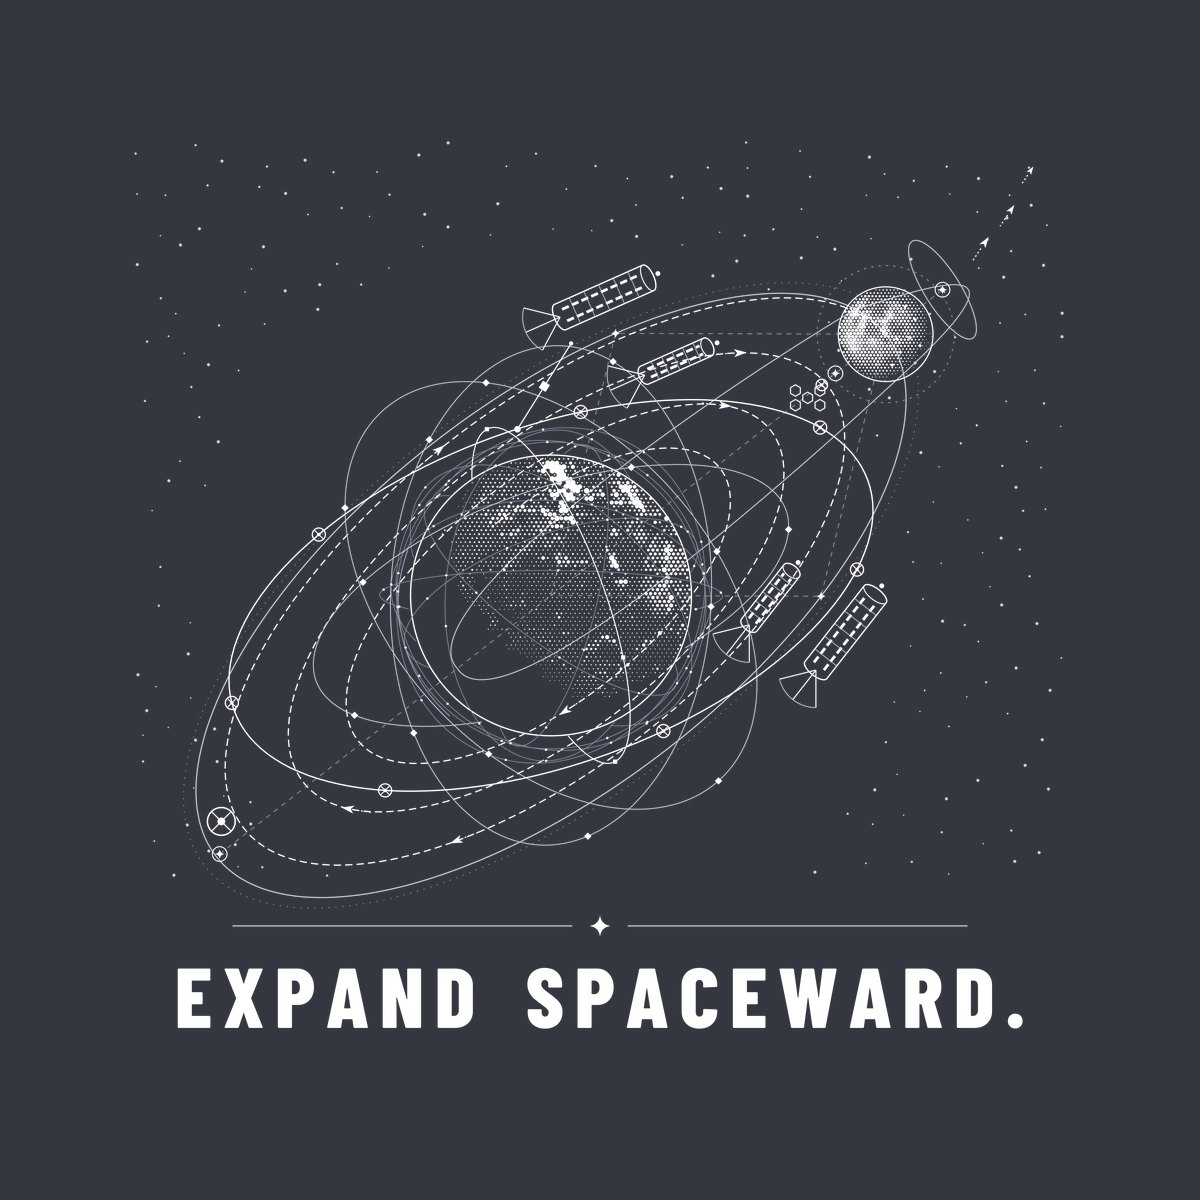
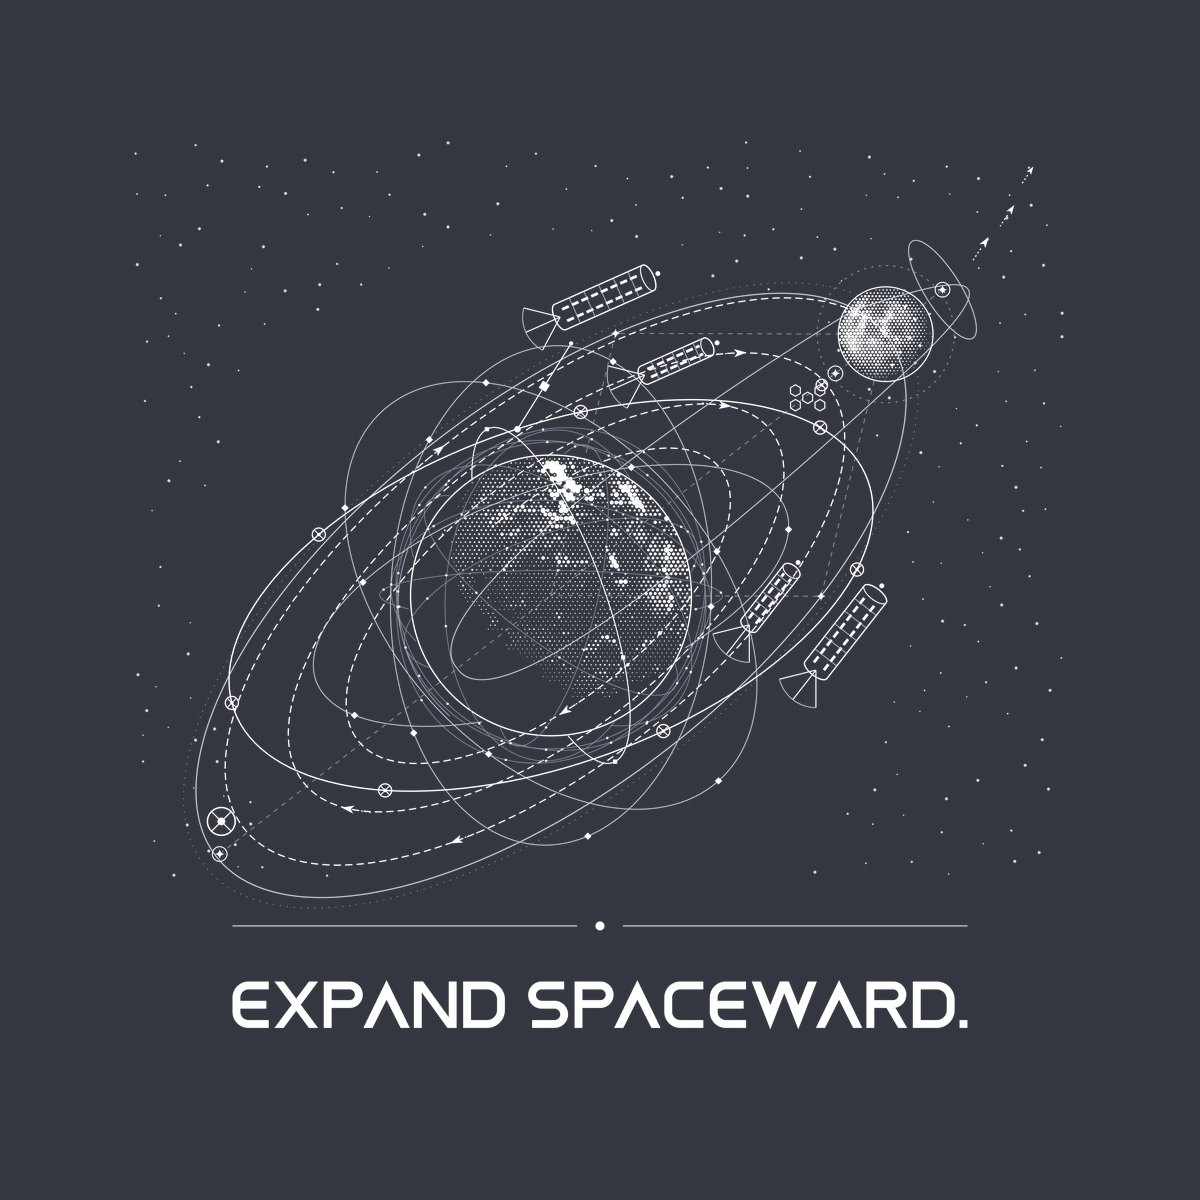
New identity: Earth-limb mark with rising Moon, single-weight lettering
- Header logo and hero headline use the new mark and lettering (SPACEWARD. keeps its period)
- Favicon, touch icon and share image added
- Rail marker is a dot; the four-point star is retired
- Tee gallery close-up regenerated from the re-lettered back print

Claude-Session: https://claude.ai/code/session_01GXNSjP8nvqJDbdjoJYqwpt

Changed region(s): [[0.1233, 0.8017, 0.8633, 0.8633]]

diff --git a/index.html b/index.html
@@ -5,6 +5,16 @@
 <meta name="viewport" content="width=device-width, initial-scale=1">
 <title>SPACEWARD</title>
 <link rel="canonical" href="https://gospaceward.com/">
+<link rel="icon" href="img/favicon.svg" type="image/svg+xml">
+<link rel="icon" href="img/favicon-32.png" sizes="32x32" type="image/png">
+<link rel="apple-touch-icon" href="img/icon-180.png">
+<meta name="theme-color" content="#07080B">
+<meta property="og:title" content="SPACEWARD.">
+<meta property="og:description" content="The frontier did not close. It moved up.">
+<meta property="og:type" content="website">
+<meta property="og:url" content="https://gospaceward.com/">
+<meta property="og:image" content="https://gospaceward.com/img/share.jpg">
+<meta name="twitter:card" content="summary_large_image">
 <script>if(/(^|\.)expandspaceward\.com$/i.test(location.hostname)||location.hostname==='www.gospaceward.com'){location.replace('https://gospaceward.com'+location.pathname+location.hash);}</script>
 <link rel="preconnect" href="https://fonts.googleapis.com">
 <link rel="stylesheet" href="https://fonts.googleapis.com/css2?family=Barlow+Condensed:wght@500;700;800&family=Barlow:wght@400;500&display=swap">
@@ -41,6 +51,8 @@ body[data-view="shop"] #shop,body[data-view="manifesto"] #manifesto{display:bloc
 .alt{font-family:var(--display);font-weight:500;font-size:17px;letter-spacing:.18em;color:var(--steel);font-variant-numeric:tabular-nums;text-transform:uppercase}
 h1,h2,h3{margin:0;font-family:var(--display);font-weight:800;line-height:.92;letter-spacing:.01em;text-wrap:balance;text-transform:uppercase}
 h1{font-size:clamp(52px,min(7.4vw,14vh),108px)}
+h1.lh{margin:0;line-height:0;width:100%}
+h1.lh svg{display:block;width:min(100%,580px);height:auto}
 .h2s{font-size:clamp(36px,4.4vw,60px)}
 h2{font-size:clamp(42px,6vw,84px)}
 h3{font-size:clamp(26px,3vw,34px);line-height:1}
@@ -55,7 +67,9 @@ p{margin:0;max-width:34em;color:#C9CED6}
 .note{font-size:15px;color:var(--steel)}
 .bar{position:fixed;top:0;left:0;right:0;z-index:5;display:flex;align-items:center;justify-content:space-between;gap:12px;padding:14px clamp(16px,4vw,40px);background:linear-gradient(to bottom,rgba(7,8,11,.9),rgba(7,8,11,0))}
 .brand{display:flex;align-items:center;gap:10px;background:none;border:0;color:var(--star);cursor:pointer;padding:6px 0;font-family:var(--display);font-weight:800;font-size:26px;letter-spacing:.2em}
-.mark{width:34px;height:34px;flex:none}
+.mark{width:48px;height:34px;flex:none}
+.brand span{display:flex}
+.wm{height:16px;width:auto;display:block}
 .bar nav{display:flex;gap:clamp(14px,3vw,34px)}
 .bar nav button,.bar nav a{background:none;border:0;text-decoration:none;display:inline-block;color:var(--star);cursor:pointer;padding:12px 0;font-family:var(--display);font-weight:700;font-size:17px;letter-spacing:.18em;text-transform:uppercase;border-bottom:1px solid transparent}
 .bar nav button:hover,.bar nav a:hover,.bar nav button[aria-current="page"]{border-bottom-color:var(--star)}
@@ -247,7 +261,7 @@ body[data-view="shop"] .bar :focus-visible{outline-color:var(--void)}
 <canvas id="stars" aria-hidden="true"></canvas>
 
 <header class="bar">
-<button class="brand" type="button" data-go="home" aria-label="SPACEWARD. Home"><svg class="mark" viewBox="-116 -116 232 232" aria-hidden="true"><g transform="translate(0 5)"><path transform="translate(0 -48)" d="M 0 -58 Q 6.96 -6.96 58 0 Q 6.96 6.96 0 58 Q -6.96 6.96 -58 0 Q -6.96 -6.96 0 -58 Z" fill="currentColor"></path><path d="M -100 87 A 130 130 0 0 1 100 87" fill="none" stroke="currentColor" stroke-width="14"></path></g></svg><span>SPACEWARD.</span></button>
+<button class="brand" type="button" data-go="home" aria-label="SPACEWARD. Home"><svg class="mark" viewBox="-116 -72 232 164" aria-hidden="true"><defs><clipPath id="hbc"><path clip-rule="evenodd" d="M -300 -300 H 300 V 300 H -300 Z M -140 158.7 A 140 140 0 1 0 140 158.7 A 140 140 0 1 0 -140 158.7 Z"/></clipPath></defs><g clip-path="url(#hbc)"><circle cx="30" cy="11.2" r="23.5" fill="none" stroke="currentColor" stroke-width="9"/><path d="M 10.2 -8.6 A 28 28 0 0 1 49.8 31.0 A 28 14.0 225 0 0 10.2 -8.6 Z" fill="currentColor"/></g><path d="M -106 80 A 132 132 0 0 1 106 80 A 205 205 0 0 0 -106 80 Z" fill="currentColor"/><circle cx="78" cy="-50.8" r="9.5" fill="currentColor"/></svg><span><svg class="wm" viewBox="0 -4 945.7 108" aria-hidden="true"><g transform="translate(0.0 0)"><path d="M 77.5 8.5 L 29.2 8.5 A 20.7 20.7 0 0 0 29.2 50.0 L 56.7 50.0 A 20.7 20.7 0 0 1 56.7 91.5 L 8.5 91.5" fill="none" stroke="currentColor" stroke-width="17.0" stroke-linejoin="miter" stroke-miterlimit="6"/></g><g transform="translate(99.9 0)"><path d="M 8.5 100 L 8.5 8.5 L 55.5 8.5 A 20.0 20.0 0 0 1 55.5 48.5 L 8.5 48.5" fill="none" stroke="currentColor" stroke-width="17.0" stroke-linejoin="miter" stroke-miterlimit="6"/></g><g transform="translate(185.1 0)"><path d="M 50.0 -3.0 L 100.0 100.0 L 80.2 100.0 L 50.0 39.4 L 19.7 100.0 L 0.0 100.0 Z" fill="currentColor"/></g><g transform="translate(293.1 0)"><path d="M 84.0 8.5 L 34.5 8.5 A 26.0 26.0 0 0 0 8.5 34.5 L 8.5 65.5 A 26.0 26.0 0 0 0 34.5 91.5 L 84.0 91.5" fill="none" stroke="currentColor" stroke-width="17.0" stroke-linejoin="miter" stroke-miterlimit="6"/></g><g transform="translate(391.0 0)"><path d="M 78.0 8.5 L 34.5 8.5 A 26.0 26.0 0 0 0 8.5 34.5 L 8.5 65.5 A 26.0 26.0 0 0 0 34.5 91.5 L 78.0 91.5" fill="none" stroke="currentColor" stroke-width="17.0" stroke-linejoin="miter" stroke-miterlimit="6"/><path d="M 8.5 50.0 L 72.9 50.0" fill="none" stroke="currentColor" stroke-width="17.0" stroke-linejoin="miter" stroke-miterlimit="6"/></g><g transform="translate(481.3 0)"><path d="M 0.0 0.0 L 19.7 0.0 L 40.0 50.7 L 60.2 0.0 L 80.0 0.0 L 40.0 103.0 Z" fill="currentColor"/><path d="M 60.2 0.0 L 80.0 0.0 L 100.2 50.7 L 120.5 0.0 L 140.2 0.0 L 100.2 103.0 Z" fill="currentColor"/></g><g transform="translate(619.3 0)"><path d="M 50.0 -3.0 L 100.0 100.0 L 80.2 100.0 L 50.0 39.4 L 19.7 100.0 L 0.0 100.0 Z" fill="currentColor"/></g><g transform="translate(728.2 0)"><path d="M 8.5 100 L 8.5 8.5 L 57.5 8.5 A 20.0 20.0 0 0 1 57.5 48.5 L 8.5 48.5" fill="none" stroke="currentColor" stroke-width="17.0" stroke-linejoin="miter" stroke-miterlimit="6"/><path d="M 37.7 47.5 L 57.1 47.5 L 87.7 100.0 L 68.3 100.0 Z" fill="currentColor"/></g><g transform="translate(828.1 0)"><path d="M 8.5 8.5 L 51.5 8.5 A 30.0 30.0 0 0 1 81.5 38.5 L 81.5 61.5 A 30.0 30.0 0 0 1 51.5 91.5 L 8.5 91.5 Z" fill="none" stroke="currentColor" stroke-width="17.0" stroke-linejoin="miter" stroke-miterlimit="6"/></g><g transform="translate(928.6 0)"><path d="M 0.0 83.0 L 17.0 83.0 L 17.0 100.0 L 0.0 100.0 Z" fill="currentColor"/></g></svg></span></button>
 <nav aria-label="Site">
 <a href="https://astronomics.substack.com/" target="_blank" rel="noopener">Astronomics</a>
 <button type="button" class="shopbtn" data-view-to="shop">Shop</button>
@@ -259,7 +273,7 @@ body[data-view="shop"] .bar :focus-visible{outline-color:var(--void)}
 
 <section class="stage" id="home" data-name="Home" data-km="0">
 <div class="inner"><div class="copy">
-<h1>Expand<br>Spaceward.</h1>
+<h1 class="lh" aria-label="Expand Spaceward."><svg viewBox="0 -4 945.7 244" aria-hidden="true"><g transform="translate(0.0 0)"><path d="M 78.0 8.5 L 34.5 8.5 A 26.0 26.0 0 0 0 8.5 34.5 L 8.5 65.5 A 26.0 26.0 0 0 0 34.5 91.5 L 78.0 91.5" fill="none" stroke="currentColor" stroke-width="17.0" stroke-linejoin="miter" stroke-miterlimit="6"/><path d="M 8.5 50.0 L 72.9 50.0" fill="none" stroke="currentColor" stroke-width="17.0" stroke-linejoin="miter" stroke-miterlimit="6"/></g><g transform="translate(90.2 0)"><path d="M 0.0 0.0 L 19.7 0.0 L 94.0 100.0 L 74.2 100.0 Z" fill="currentColor"/><path d="M 94.0 0.0 L 74.2 0.0 L 0.0 100.0 L 19.7 100.0 Z" fill="currentColor"/></g><g transform="translate(196.4 0)"><path d="M 8.5 100 L 8.5 8.5 L 55.5 8.5 A 20.0 20.0 0 0 1 55.5 48.5 L 8.5 48.5" fill="none" stroke="currentColor" stroke-width="17.0" stroke-linejoin="miter" stroke-miterlimit="6"/></g><g transform="translate(281.6 0)"><path d="M 50.0 -3.0 L 100.0 100.0 L 80.2 100.0 L 50.0 39.4 L 19.7 100.0 L 0.0 100.0 Z" fill="currentColor"/></g><g transform="translate(390.5 0)"><path d="M 0.0 0.0 L 17.0 0.0 L 17.0 100.0 L 0.0 100.0 Z" fill="currentColor"/><path d="M 75.0 0.0 L 92.0 0.0 L 92.0 100.0 L 75.0 100.0 Z" fill="currentColor"/><path d="M 0.0 0.0 L 19.7 0.0 L 92.0 100.0 L 72.2 100.0 Z" fill="currentColor"/></g><g transform="translate(496.4 0)"><path d="M 8.5 8.5 L 51.5 8.5 A 30.0 30.0 0 0 1 81.5 38.5 L 81.5 61.5 A 30.0 30.0 0 0 1 51.5 91.5 L 8.5 91.5 Z" fill="none" stroke="currentColor" stroke-width="17.0" stroke-linejoin="miter" stroke-miterlimit="6"/></g><g transform="translate(0 136)"><g transform="translate(0.0 0)"><path d="M 77.5 8.5 L 29.2 8.5 A 20.7 20.7 0 0 0 29.2 50.0 L 56.7 50.0 A 20.7 20.7 0 0 1 56.7 91.5 L 8.5 91.5" fill="none" stroke="currentColor" stroke-width="17.0" stroke-linejoin="miter" stroke-miterlimit="6"/></g><g transform="translate(99.9 0)"><path d="M 8.5 100 L 8.5 8.5 L 55.5 8.5 A 20.0 20.0 0 0 1 55.5 48.5 L 8.5 48.5" fill="none" stroke="currentColor" stroke-width="17.0" stroke-linejoin="miter" stroke-miterlimit="6"/></g><g transform="translate(185.1 0)"><path d="M 50.0 -3.0 L 100.0 100.0 L 80.2 100.0 L 50.0 39.4 L 19.7 100.0 L 0.0 100.0 Z" fill="currentColor"/></g><g transform="translate(293.1 0)"><path d="M 84.0 8.5 L 34.5 8.5 A 26.0 26.0 0 0 0 8.5 34.5 L 8.5 65.5 A 26.0 26.0 0 0 0 34.5 91.5 L 84.0 91.5" fill="none" stroke="currentColor" stroke-width="17.0" stroke-linejoin="miter" stroke-miterlimit="6"/></g><g transform="translate(391.0 0)"><path d="M 78.0 8.5 L 34.5 8.5 A 26.0 26.0 0 0 0 8.5 34.5 L 8.5 65.5 A 26.0 26.0 0 0 0 34.5 91.5 L 78.0 91.5" fill="none" stroke="currentColor" stroke-width="17.0" stroke-linejoin="miter" stroke-miterlimit="6"/><path d="M 8.5 50.0 L 72.9 50.0" fill="none" stroke="currentColor" stroke-width="17.0" stroke-linejoin="miter" stroke-miterlimit="6"/></g><g transform="translate(481.3 0)"><path d="M 0.0 0.0 L 19.7 0.0 L 40.0 50.7 L 60.2 0.0 L 80.0 0.0 L 40.0 103.0 Z" fill="currentColor"/><path d="M 60.2 0.0 L 80.0 0.0 L 100.2 50.7 L 120.5 0.0 L 140.2 0.0 L 100.2 103.0 Z" fill="currentColor"/></g><g transform="translate(619.3 0)"><path d="M 50.0 -3.0 L 100.0 100.0 L 80.2 100.0 L 50.0 39.4 L 19.7 100.0 L 0.0 100.0 Z" fill="currentColor"/></g><g transform="translate(728.2 0)"><path d="M 8.5 100 L 8.5 8.5 L 57.5 8.5 A 20.0 20.0 0 0 1 57.5 48.5 L 8.5 48.5" fill="none" stroke="currentColor" stroke-width="17.0" stroke-linejoin="miter" stroke-miterlimit="6"/><path d="M 37.7 47.5 L 57.1 47.5 L 87.7 100.0 L 68.3 100.0 Z" fill="currentColor"/></g><g transform="translate(828.1 0)"><path d="M 8.5 8.5 L 51.5 8.5 A 30.0 30.0 0 0 1 81.5 38.5 L 81.5 61.5 A 30.0 30.0 0 0 1 51.5 91.5 L 8.5 91.5 Z" fill="none" stroke="currentColor" stroke-width="17.0" stroke-linejoin="miter" stroke-miterlimit="6"/></g><g transform="translate(928.6 0)"><path d="M 0.0 83.0 L 17.0 83.0 L 17.0 100.0 L 0.0 100.0 Z" fill="currentColor"/></g></g></svg></h1>
 <p class="tag">The frontier did not close.<br>It moved up.</p>
 <div class="row">
 <button class="btn" type="button" data-go="moon">Launch &#8593;</button>
@@ -375,7 +389,7 @@ body[data-view="shop"] .bar :focus-visible{outline-color:var(--void)}
 </div>
 
 <nav class="rail" aria-label="Altitude">
-<div class="ship" id="ship"><svg viewBox="-60 -60 120 120" aria-hidden="true"><path d="M 0 -58 Q 6.96 -6.96 58 0 Q 6.96 6.96 0 58 Q -6.96 6.96 -58 0 Q -6.96 -6.96 0 -58 Z" fill="currentColor"></path></svg><div class="plume"></div></div>
+<div class="ship" id="ship"><svg viewBox="-60 -60 120 120" aria-hidden="true"><circle r="24" fill="currentColor"></circle></svg><div class="plume"></div></div>
 </nav>
 <div class="hud">
 <span class="v" id="altv">0 km</span>
